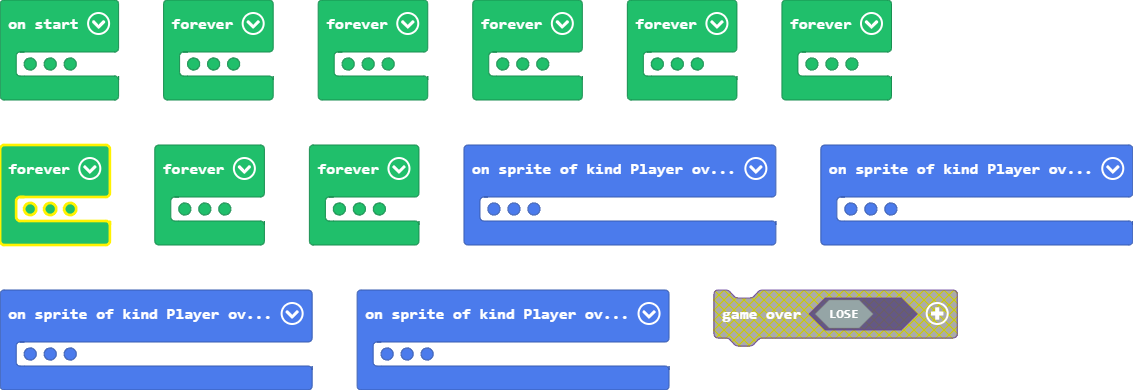
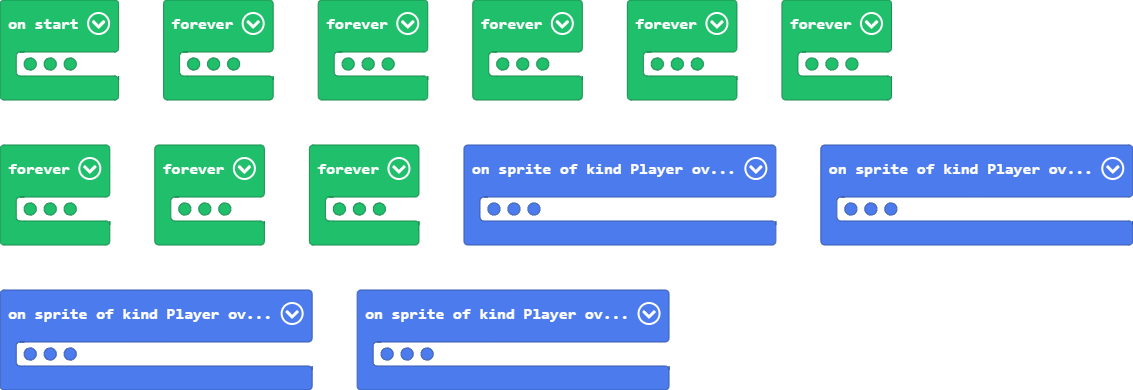
Update pxt.json, main.blocks, main.ts

diff --git a/main.ts b/main.ts
@@ -23,7 +23,7 @@ sprites.onOverlap(SpriteKind.Player, SpriteKind.TimeSlow, function (sprite, othe
 })
 sprites.onOverlap(SpriteKind.Player, SpriteKind.Enemy, function (sprite, otherSprite) {
     if (Shield == !(true)) {
-    	
+        game.over(false)
     } else {
         otherSprite.destroy(effects.disintegrate, 100)
         timer.after(110, function () {
